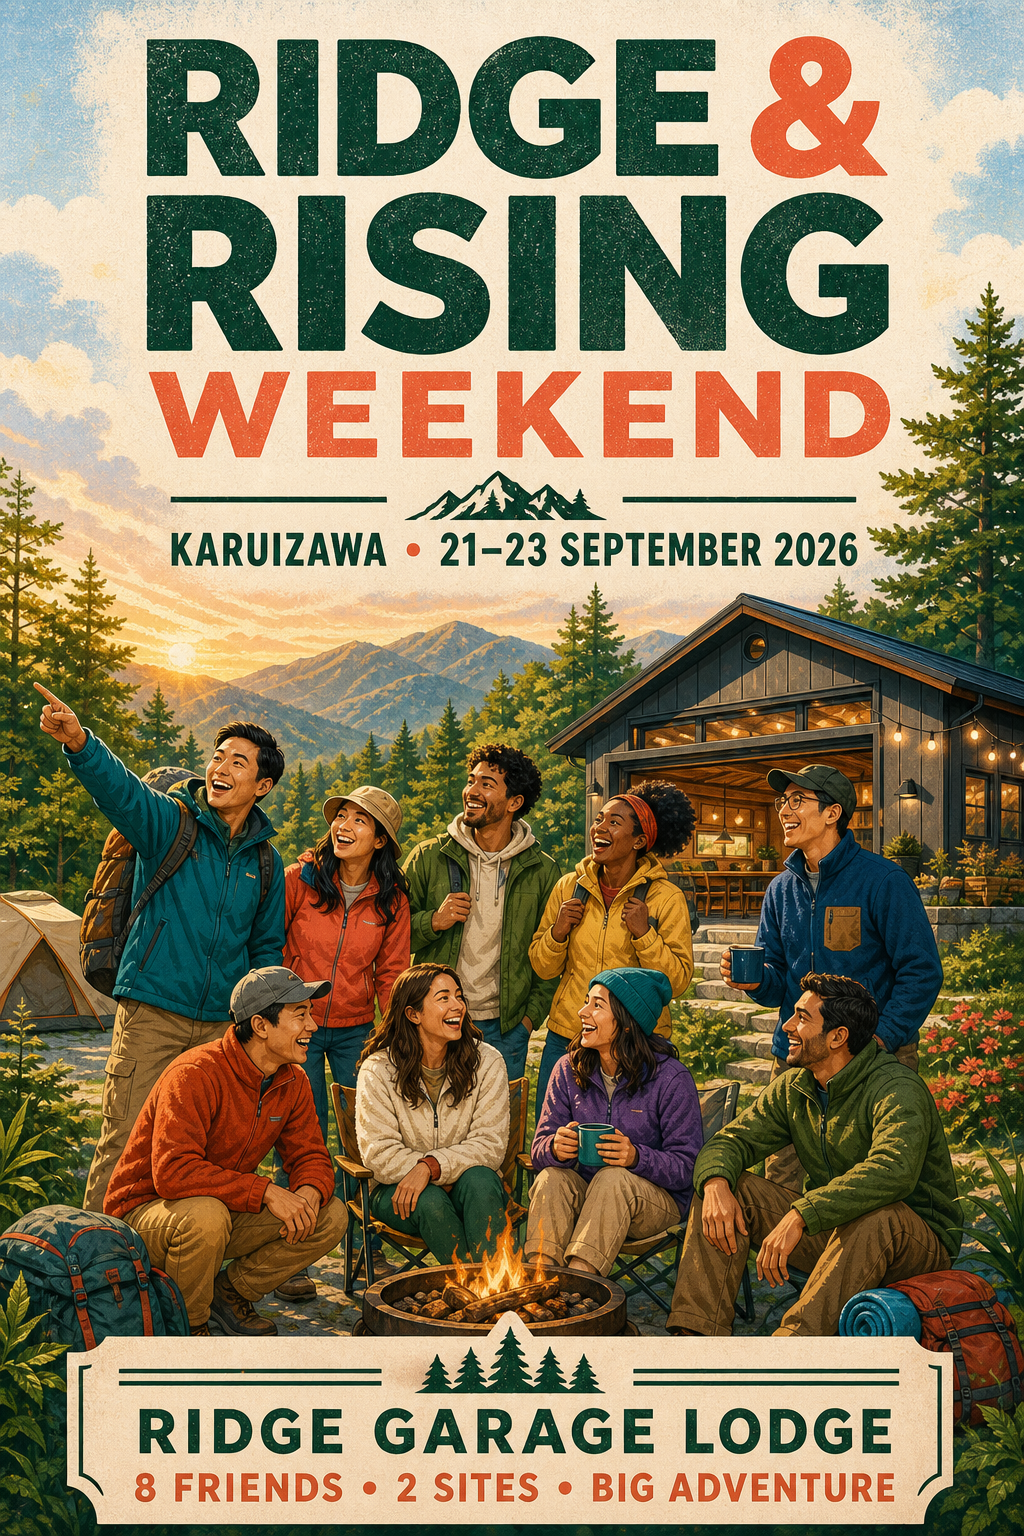
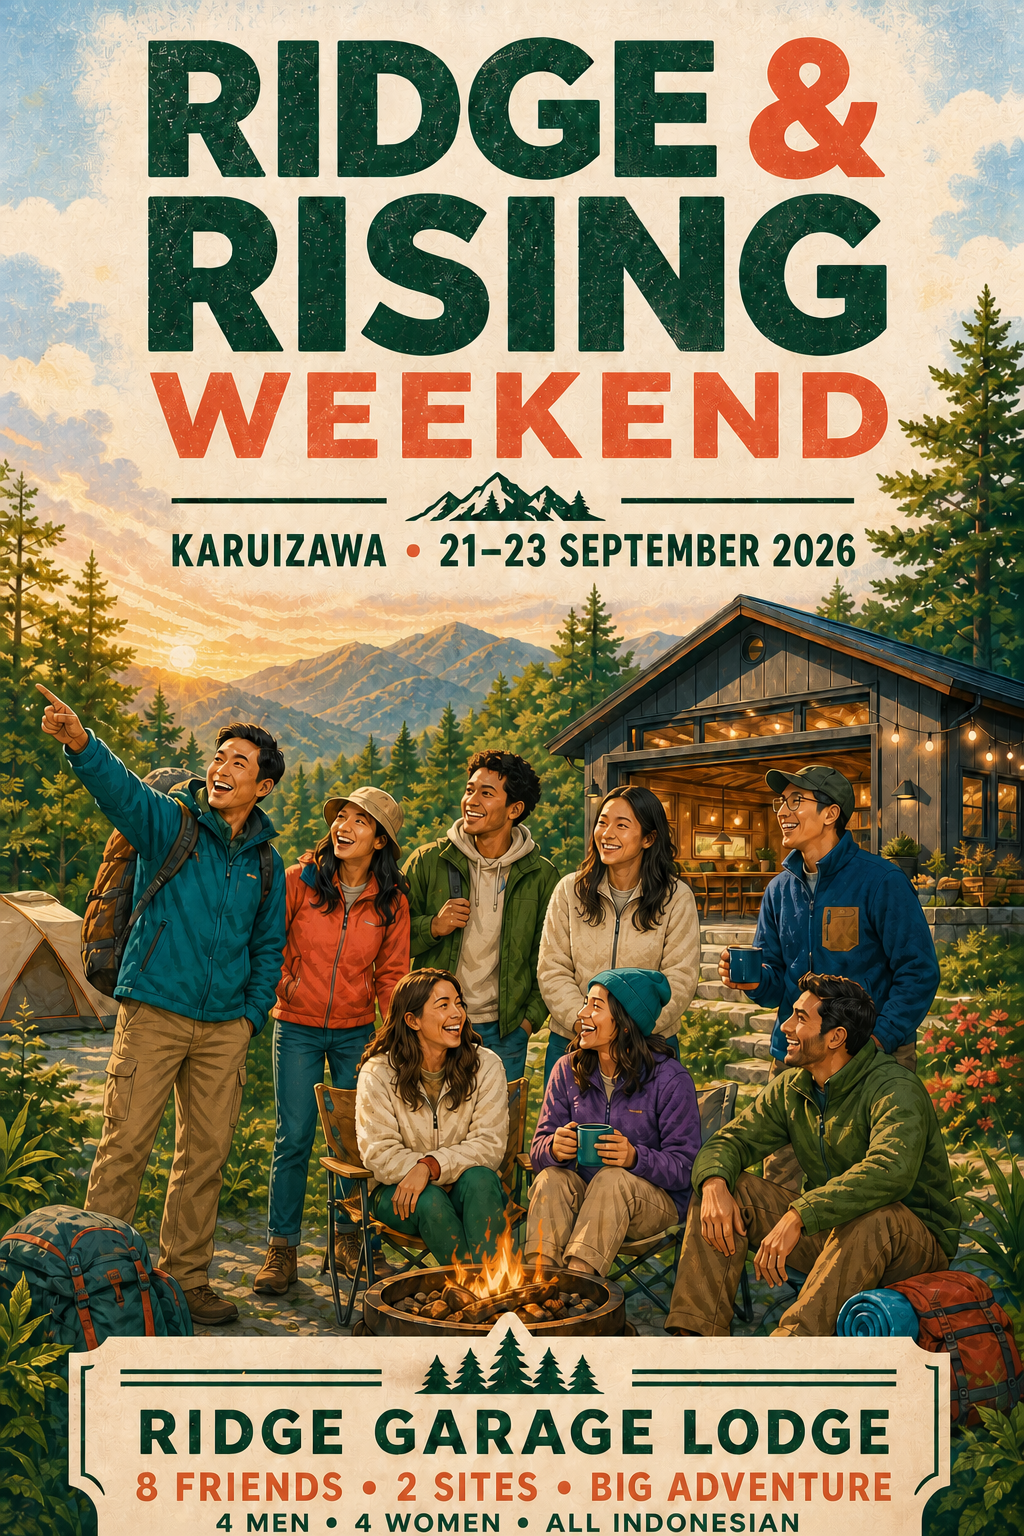
docs: refine poster and add trip budget summary

diff --git a/japan-silver-week-2026/itinerary.md b/japan-silver-week-2026/itinerary.md
@@ -4,10 +4,12 @@
 
 *Event poster: Ridge & Rising Weekend, Karuizawa, 21–23 September 2026.*
 
-Trip plan for a potential eight-person group, with a balanced 4-men / 4-women setup.
+Trip plan for a potential eight-person group of Indonesian friends, with a balanced 4-men / 4-women setup.
+
+> **Quick summary:** 21–23 September 2026 at Ridge Garage Lodge, using two sites near Rising Field. Travel by highway bus Tokyo ↔ Karuizawa, then local bus to the lodge area. The target group is **8 Indonesian friends (4 men and 4 women)**, including **one Chinese-Indonesian (Chindo) woman**. **Overall budget for 8:** approximately **¥240,160–¥300,160 total**, or **¥30,020–¥37,520 per person**, including the quoted lodge stay, buses, food, activities, and contingency.
 
 - **Dates:** Monday 21–Wednesday 23 September 2026
-- **Target group:** 8 people — **4 men and 4 women**
+- **Target group:** 8 Indonesian people — **4 men and 4 women**, including one Chinese-Indonesian (Chindo) woman
 - **Participant roster:** 8 people under consideration; confirm attendance before booking all bus seats
 - **Route:** Tokyo → Karuizawa → Rising Field / Ridge Garage Lodge → Karuizawa → Tokyo
 - **Transport:** highway bus between Tokyo and Karuizawa; local bus between Karuizawa Station and Rising Field
@@ -46,6 +48,7 @@ The budget below treats **¥132,000 as the total charge for both sites and both 
 ### Target group
 
 - The planned roster is eight people: four men and four women.
+- All participants are Indonesian. One female participant is Chinese-Indonesian (Chindo); confirm her name with the group before publishing any more detailed personal profile.
 - Confirm each person’s attendance before booking the full set of highway-bus seats.
 - If the final group is smaller, keep the Ridge Garage Lodge reservation and recalculate the accommodation share rather than changing the itinerary.
 - Everyone follows the same core itinerary. Optional walks, running, or rest are individual choices within the group schedule.
@@ -162,6 +165,8 @@ This is the main activity day. Keep the group near the lodge so the trip benefit
 ## Budget per person
 
 The accommodation share depends on whether six or eight people participate.
+
+For the target eight-person group, the overall trip budget is approximately **¥240,160–¥300,160 total** (**¥30,020–¥37,520 per person**). This includes the supplied ¥132,000 lodge quote, Tokyo–Karuizawa highway buses, local buses, food, mostly free activities, and contingency.
 
 | Category | Calculation | 8 people | 6 people |
 |---|---:|---:|---:|

diff --git a/japan-silver-week-2026/README.md b/japan-silver-week-2026/README.md
@@ -4,11 +4,11 @@ This project plans a short Karuizawa trip for Silver Week 2026. Use this README 
 
 ## Current deliverable
 
-Primary itinerary: [japan-silver-week-2026.md](/Users/ismailrabbanii/Documents/ai-builder/vacation/japan-silver-week-2026.md).
+Primary itinerary: [itinerary.md](itinerary.md).
 
 Event poster asset: [karuizawa-event-poster.png](karuizawa-event-poster.png).
 
-Project instructions: [AGENTS.md](/Users/ismailrabbanii/Documents/ai-builder/vacation/AGENTS.md).
+Project instructions: [AGENTS.md](AGENTS.md).
 
 Repository workflow: every intentional change should be reviewed, committed, and pushed to the project repository when network access and credentials are available.
 
@@ -17,11 +17,12 @@ Repository workflow: every intentional change should be reviewed, committed, and
 - Dates: Monday 21–Wednesday 23 September 2026.
 - Accommodation: Ridge Garage Lodge, two sites, both nights.
 - Reservation details supplied by the user: capacity 8 per site; pets allowed; quoted site fee ¥66,000 on each night; quoted total ¥132,000.
-- Target roster: eight people, four men and four women — Ismail, Bayu, Azis, Dhanang, Mila, Ghisa, Elis, and Vany.
+- Target roster: eight Indonesian people, four men and four women — Ismail, Bayu, Azis, Dhanang, Mila, Ghisa, Elis, and Vany; one female participant is Chinese-Indonesian (Chindo).
 - Starting areas: Ismail and Azis in Kawaguchi, Saitama; Bayu in Itabashi; Dhanang in Chiba; Mila, Ghisa, and Elis in Yokohama; Vany in Tokyo.
 - Confirm attendance before booking the full set of highway-bus seats.
 - Transport: highway bus Tokyo–Karuizawa in both directions, plus local bus to/from the Rising Field area.
 - Main activity focus: Rising Field area and Ridge Garage Lodge facilities.
+- Overall target budget: approximately ¥240,160–¥300,160 total for eight people, or ¥30,020–¥37,520 per person.
 - Shiraito Falls is optional only and is not part of the core schedule.
 - Everyone is Muslim: avoid alcohol venues and verify pork, lard, mirin, cooking sake, alcohol-based sauces, gelatin, dashi, and non-halal meat.
 

diff --git a/japan-silver-week-2026/AGENTS.md b/japan-silver-week-2026/AGENTS.md
@@ -10,6 +10,7 @@ This folder contains the Japan Silver Week 2026 Karuizawa trip plan.
 - Accommodation: Ridge Garage Lodge, two sites, both nights.
 - Quoted accommodation amount: ¥132,000 total as supplied; verify the final reservation screen before payment.
 - Target roster: eight people, four men and four women.
+- All participants are Indonesian; one female participant is Chinese-Indonesian (Chindo).
 - Transport: highway bus between Tokyo and Karuizawa, plus local bus between Karuizawa Station and the Rising Field area.
 - Prioritize activities around Rising Field and Ridge Garage Lodge facilities.
 - Keep Muslim-friendly food requirements visible and verify ingredients rather than assuming halal certification.
